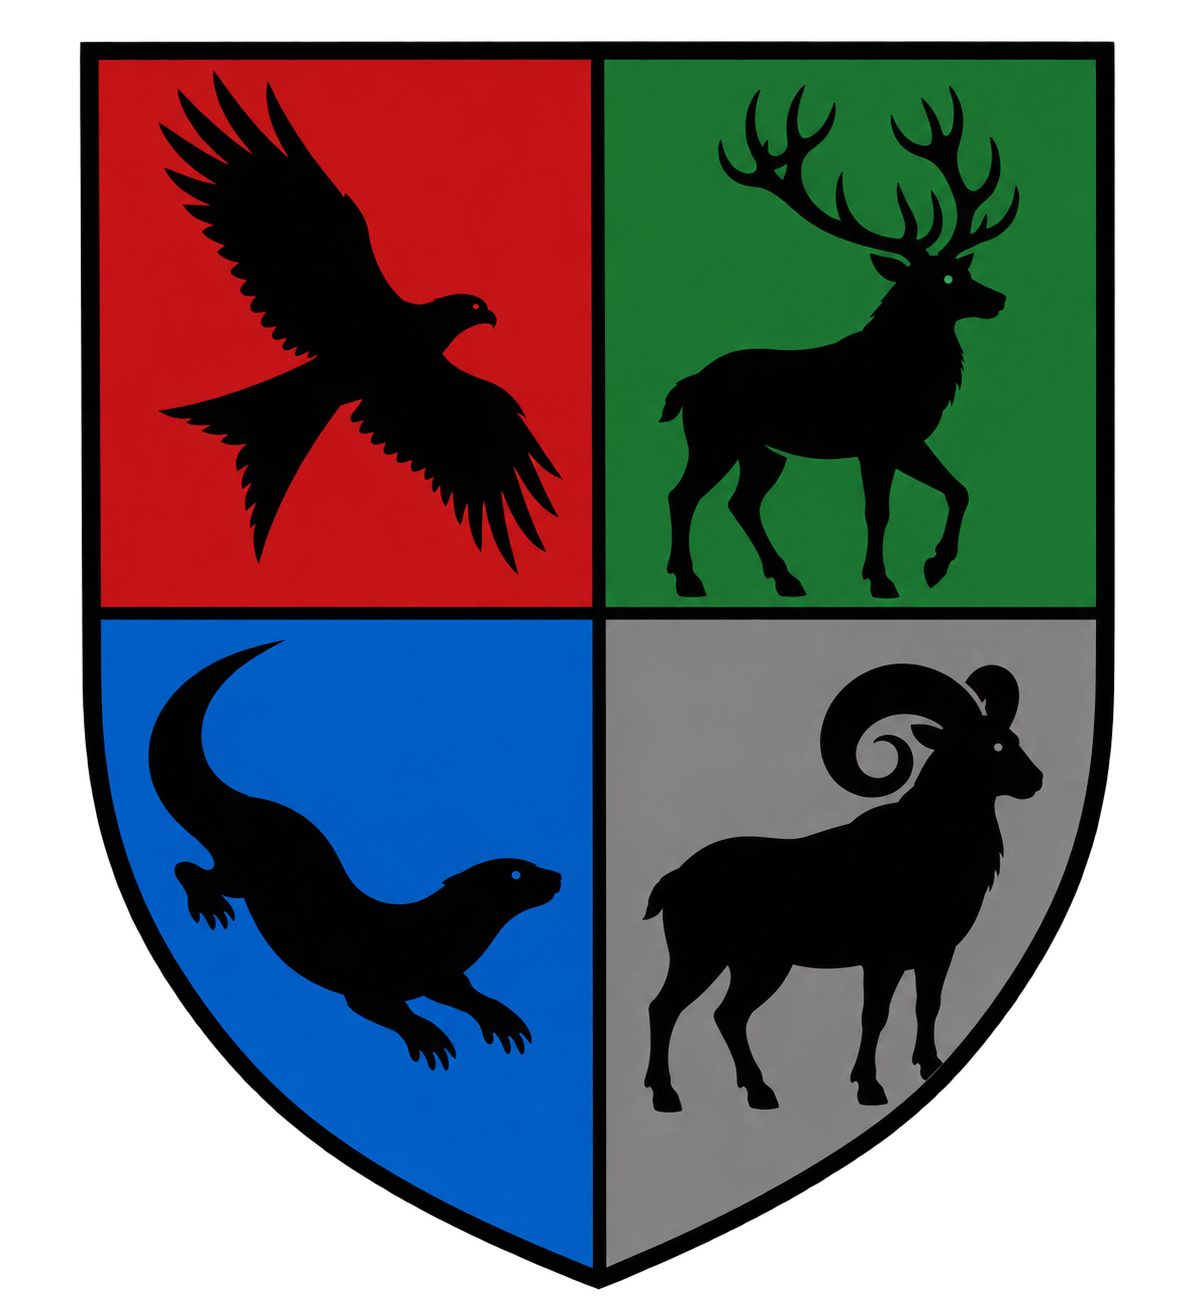
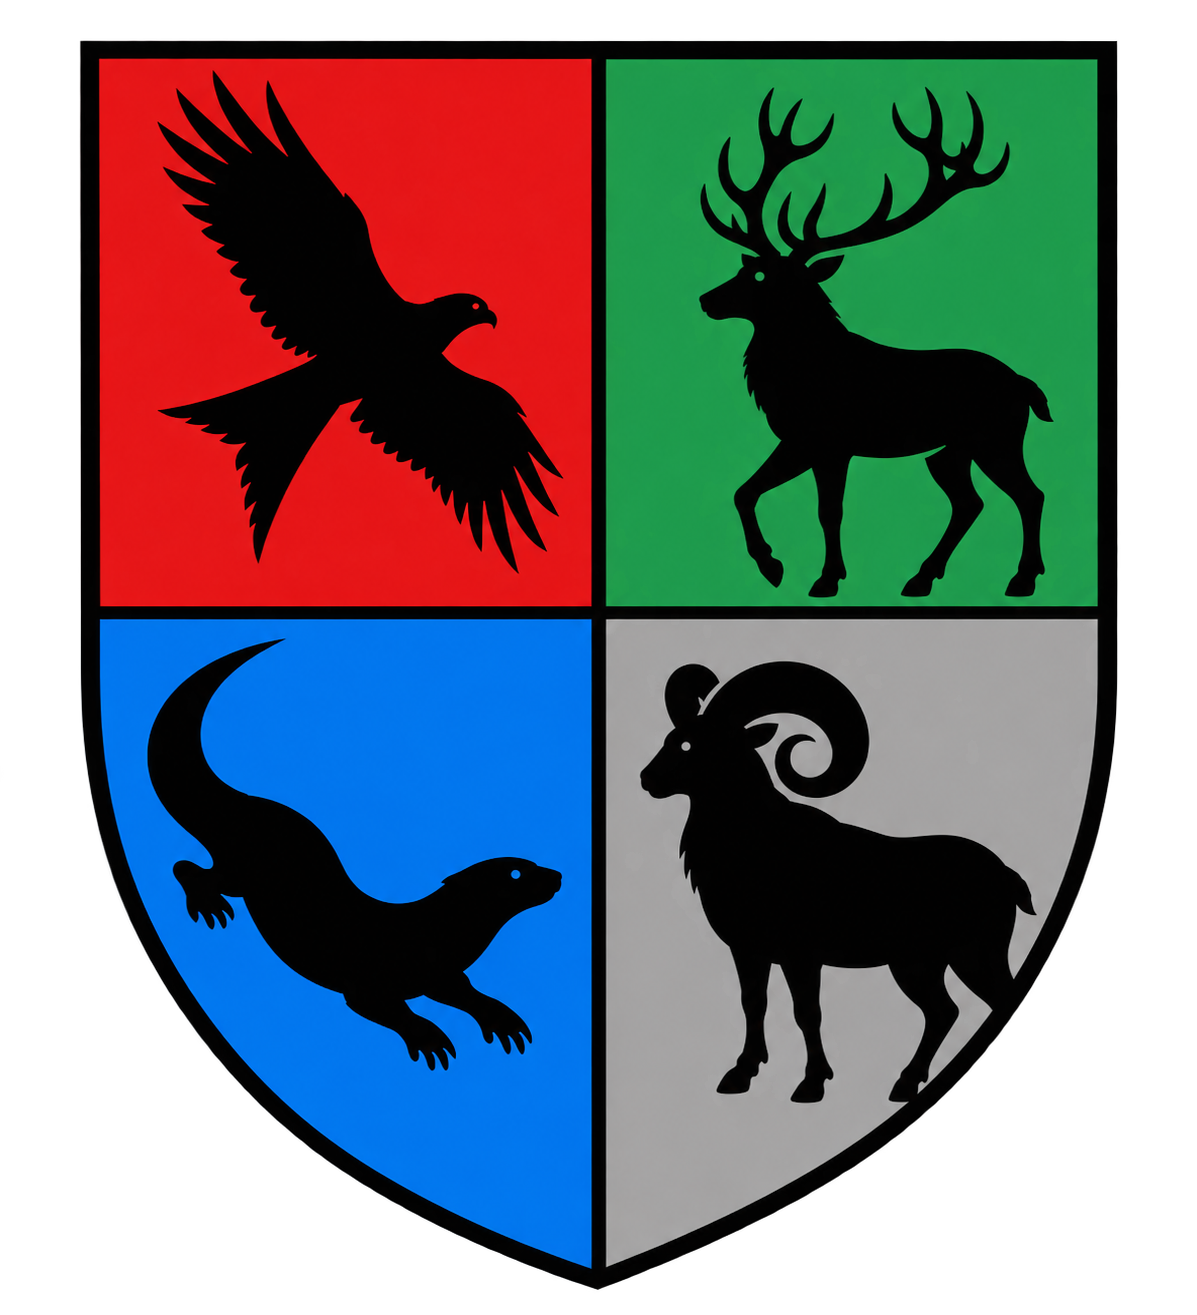
Turn stag and ram inward on school crest

diff --git a/acceptance-letter.html b/acceptance-letter.html
@@ -17,7 +17,7 @@
 <div class="letter-builder section">
 <aside class="letter-tools" aria-labelledby="letter-tools-heading"><h2 id="letter-tools-heading">Make it yours.</h2><form id="letter-name-form"><label for="student-name">Name on your letter</label><p id="name-help">Include a title if you wish, for example “Mr. Owain Ifans”.</p><input id="student-name" name="student-name" type="text" maxlength="80" autocomplete="off" aria-describedby="name-help" placeholder="Your chosen name"><button class="button" id="personalise-letter" type="submit" disabled>Update my letter</button></form><button class="letter-print" id="print-letter" type="button" disabled>Print or save as PDF</button><p class="letter-help">Choose “Save as PDF” in your browser’s print window to keep a copy. If browser headers or the website address appear on the page, turn off “Headers and footers” in the print settings.</p><p class="letter-privacy">Your name stays on this page. It isn’t saved, sent to the school, or included in a shareable link.</p><p id="letter-status" role="status" aria-live="polite"></p><noscript><p>Turn on JavaScript to personalise this letter, or use your browser’s Print option for the unnamed version.</p></noscript><a class="text-link" href="sorting-quiz.html">Discover your house →</a></aside>
 <article class="acceptance-letter" aria-labelledby="letter-school-name">
-<header class="letterhead"><img class="school-crest" src="assets/mynydd-school-crest.png" width="120" height="140" alt="Mynydd Draig school crest, quartered with a red kite on red, a stag on green, an otter on blue, and a ram on grey"><h2 id="letter-school-name">Mynydd Draig</h2><p class="letter-motto" lang="cy">Ysbryd y ddraig, calon y mynydd</p><p class="letter-motto letter-motto-english">Spirit of the dragon, heart of the mountain</p><p class="letter-location">Rhuddlan Mountain</p></header>
+<header class="letterhead"><img class="school-crest" src="assets/mynydd-school-crest.png?v=inward-animals" width="120" height="140" alt="Mynydd Draig school crest, quartered with a red kite on red, a stag on green, an otter on blue, and a ram on grey"><h2 id="letter-school-name">Mynydd Draig</h2><p class="letter-motto" lang="cy">Ysbryd y ddraig, calon y mynydd</p><p class="letter-motto letter-motto-english">Spirit of the dragon, heart of the mountain</p><p class="letter-location">Rhuddlan Mountain</p></header>
 <div class="letter-body"><p class="letter-salutation">Dear <span id="letter-recipient">future student</span>,</p>
 <p>It is an honour to inform you that you have been offered a place at Mynydd Draig. If you choose to accept, please send your correspondence at your earliest convenience to Headmistress Imelda Penrose, Headmistress’s Office, Mynydd Draig, Rhuddlan Mountain.</p>
 <p>Term will begin on the first Monday of September, but you will be expected to arrive by homing key on the final Friday of August.</p>
